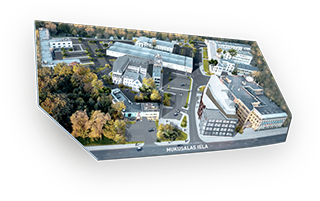
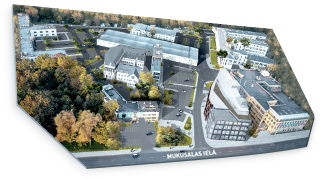
Changed location.html header map layout and sizes

diff --git a/source/stylesheets/spaces.css.sass b/source/stylesheets/spaces.css.sass
@@ -42,7 +42,7 @@ $item-inner-height: $item-height - $item-padding*2 - 2px // 2px - border
     height: 18.5%
 
   ul.extra li
-    margin: 0 3px 0 6px
+    margin: 0 0px 0 6px
     .number, i
       height: 28px
     .number
@@ -469,18 +469,16 @@ $item-inner-height: $item-height - $item-padding*2 - 2px // 2px - border
   @extend %bundle-building-article-header
   +respond-to(tablet)
     .text
-      float: left
-      margin-right: -3.5%
-      width: 53.5%
-      h1
-        max-width: 90%
+      margin: 0 auto
+      padding: 0 ($b-padding-x*3)
       p
         line-height: 1.7
   +respond-to(desktop)
     .text
+      max-width: $b-maxWidth--frame
+      padding: 0
       h1
-        margin-top: 1.75em
-        margin-bottom: .95em
+        margin: .5em 0
         font-size: 2.875em
 
 %section-building

diff --git a/source/stylesheets/components/bundle/_building.sass b/source/stylesheets/components/bundle/_building.sass
@@ -2,12 +2,10 @@
 @import structures/buttons
 
 =article-header-building_map--tablet
-  float: right
-  margin-top: 40px
+  margin-top: 0px
   margin:
     left: -5%
     right: -5%
-  width: 59%
   a.tip
     font-size: 1.125em
     &:before
@@ -90,7 +88,7 @@
       cursor: pointer
   +respond-to(tablet)
     +article-header-building_map--tablet
-  +breakpoint(em(1400px))
+  //+breakpoint(em(1400px))
     .tips.desktop
       display: none !important
     .tips.desktop--big
